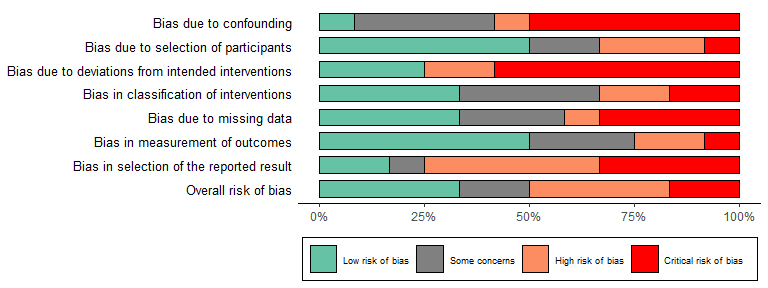
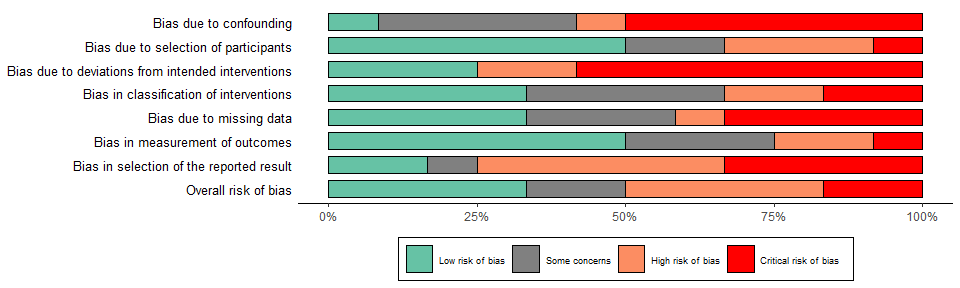
Update README.md

diff --git a/README.md b/README.md
@@ -65,7 +65,7 @@ plot_rob <- rob_summary(data = data_rob, tool = "ROB2")
 plot_rob
 ```
 
-<img src="man/figures/README-unnamed-chunk-5-1.png" width="90%" />
+<img src="man/figures/README-unnamed-chunk-5-1.png" width="70%" />
 
 **For the ROBINS-I tool for non-randomised studies of interventions:**
 
@@ -74,7 +74,7 @@ plot_robins <- rob_summary(data = data_robins, tool = "ROBINS-I")
 plot_robins
 ```
 
-<img src="man/figures/README-unnamed-chunk-6-1.png" width="90%" />
+<img src="man/figures/README-unnamed-chunk-6-1.png" width="70%" />
 
 **For the QUADAS-2 tool for diagnostic accuracy studies:**
 
@@ -83,7 +83,7 @@ plot_quadas <- rob_summary(data = data_quadas, tool = "QUADAS-2")
 plot_quadas
 ```
 
-<img src="man/figures/README-unnamed-chunk-7-1.png" width="90%" />
+<img src="man/figures/README-unnamed-chunk-7-1.png" width="70%" />
 
 ### Include overall risk-of-bias judgements
 
@@ -92,7 +92,7 @@ plot_rob <- rob_summary(data = data_robins, tool = "ROBINS-I", overall = TRUE)
 plot_rob
 ```
 
-<img src="man/figures/README-unnamed-chunk-8-1.png" width="90%" />
+<img src="man/figures/README-unnamed-chunk-8-1.png" width="70%" />
 
 Additional usage
 ----------------
@@ -108,7 +108,7 @@ plot_rob +
   ggtitle("Summary of RoB2.0 assessments")
 ```
 
-<img src="man/figures/README-unnamed-chunk-9-1.png" width="90%" />
+<img src="man/figures/README-unnamed-chunk-9-1.png" width="70%" />
 
 License
 -------
